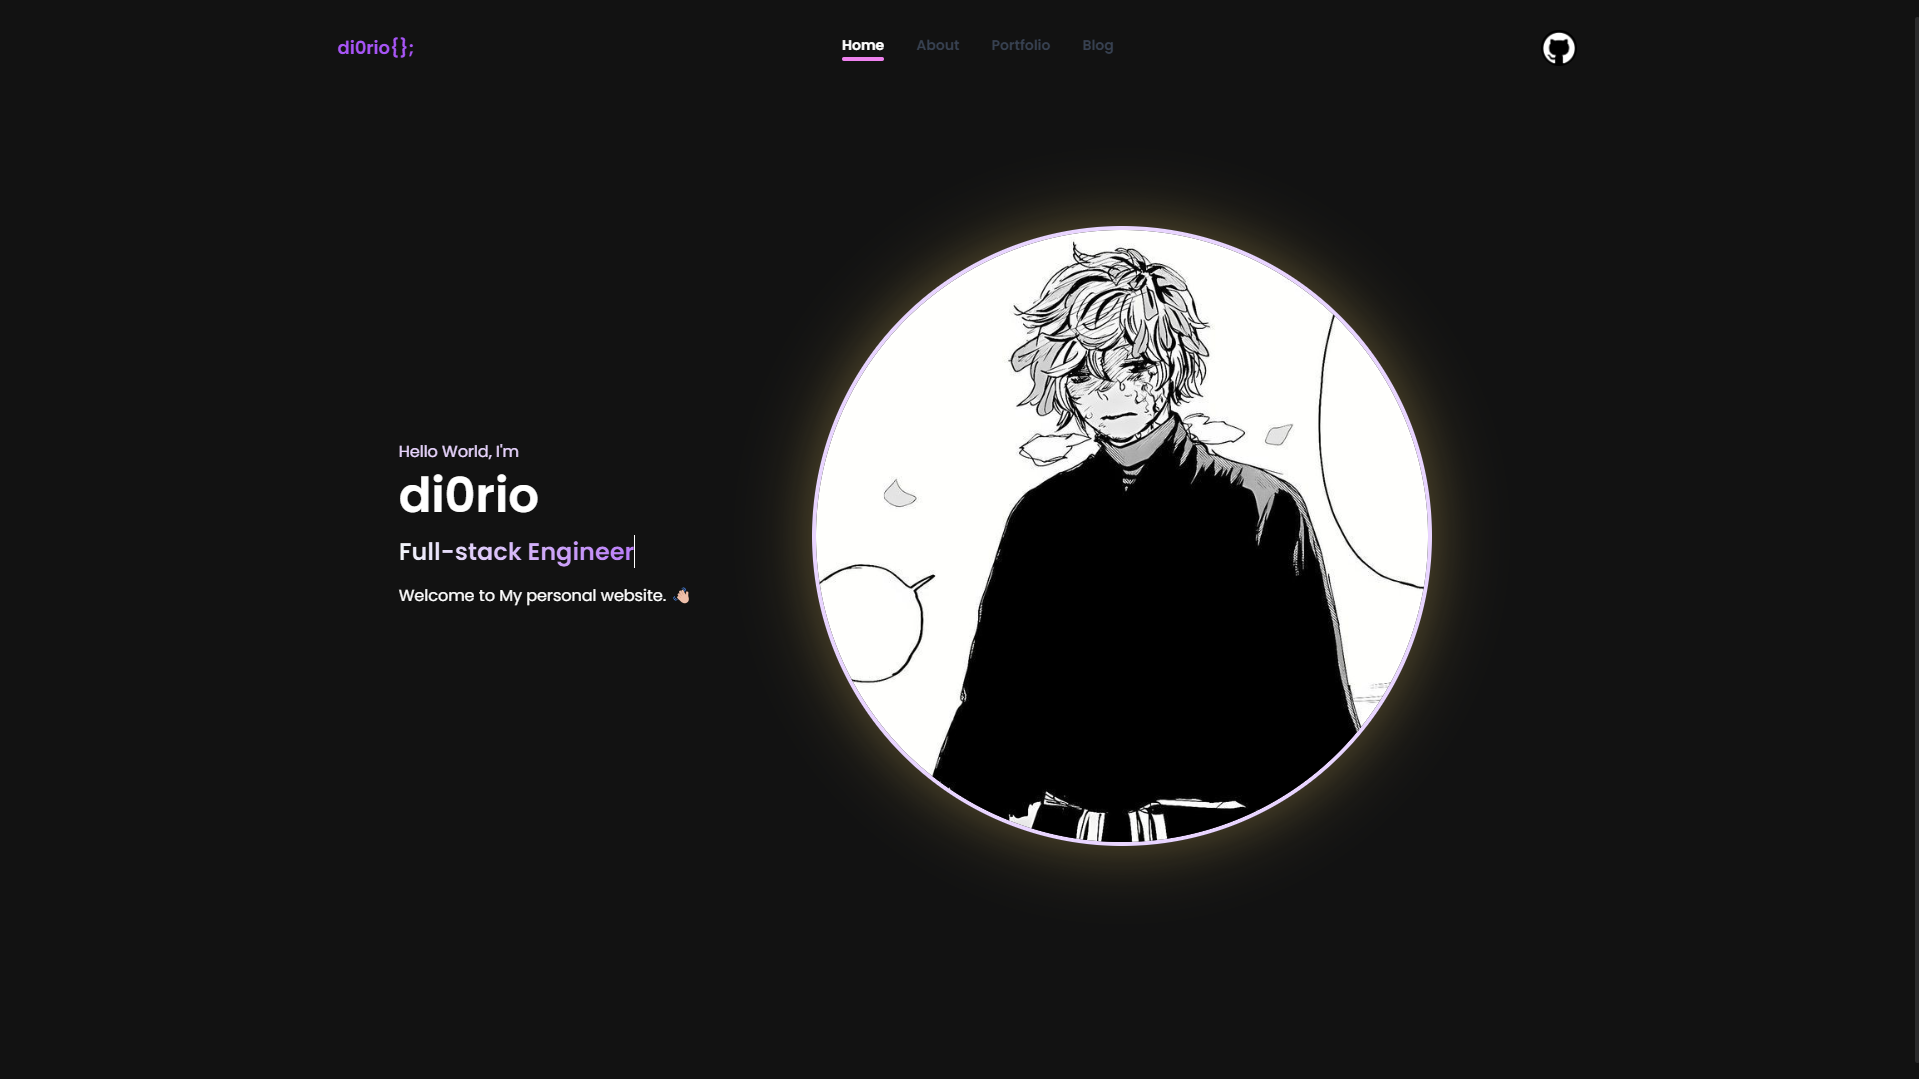
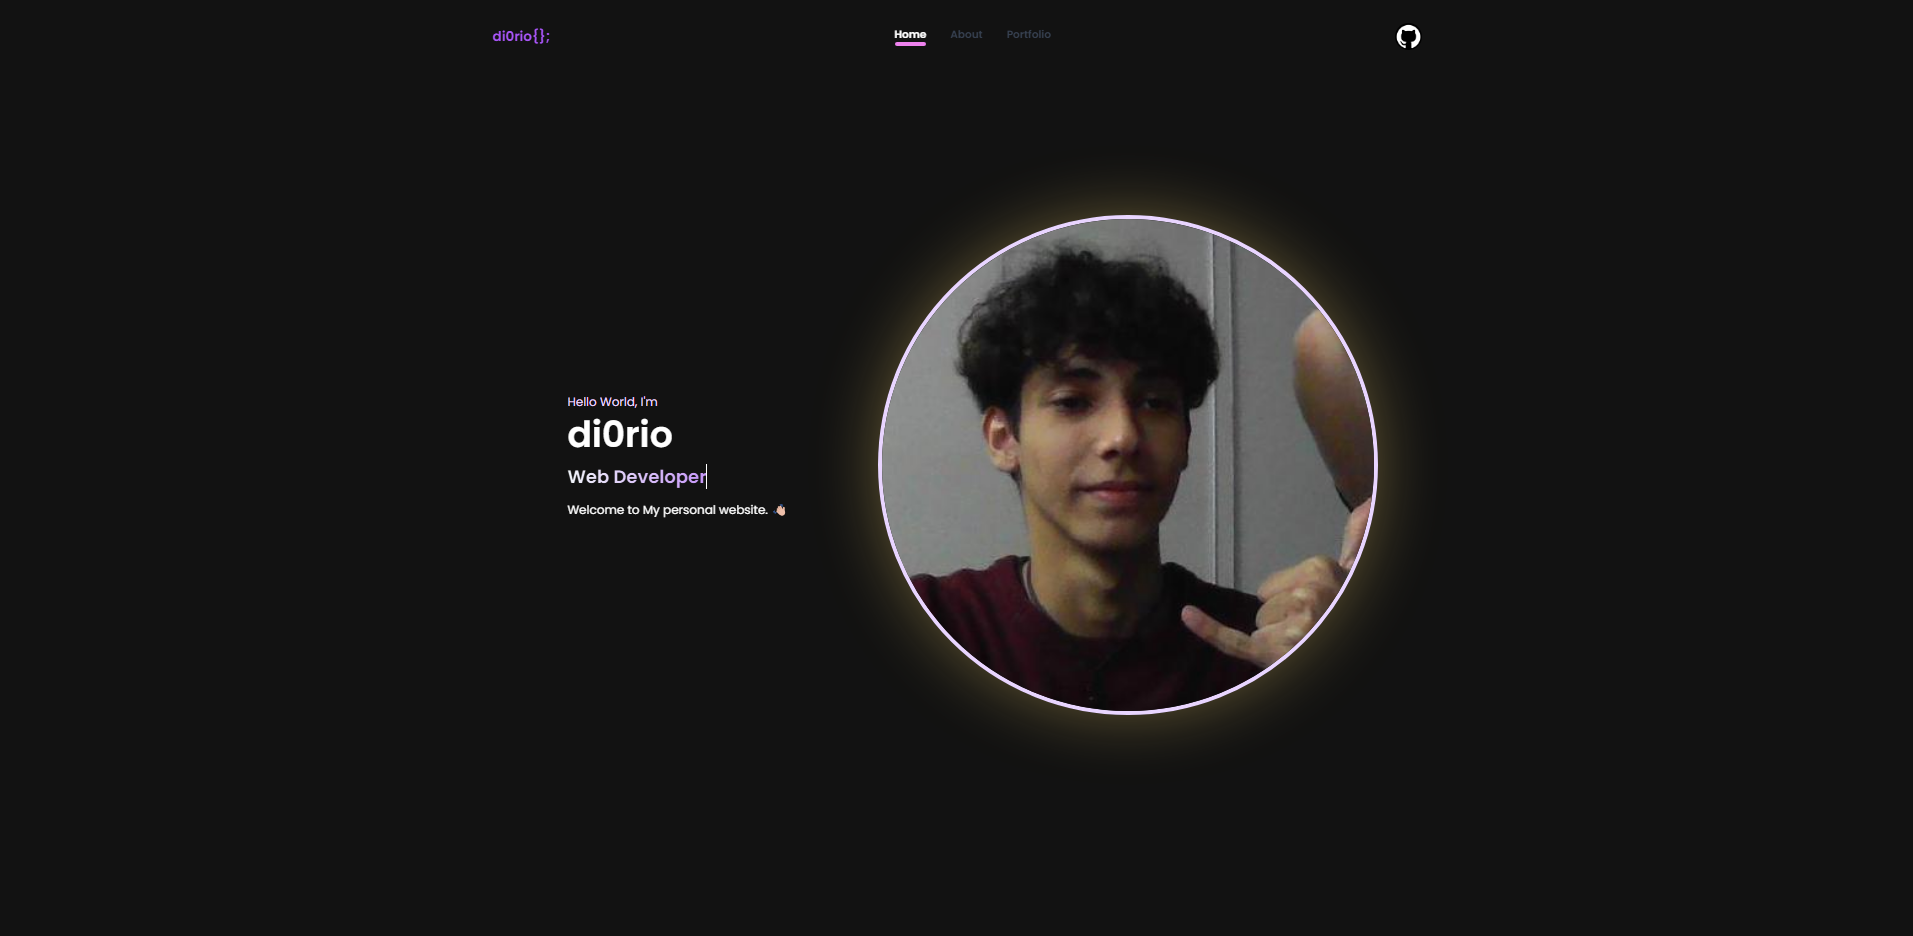
ajustes na navbar e imagens

diff --git a/src/views/PortfolioView.vue b/src/views/PortfolioView.vue
@@ -46,16 +46,27 @@ export default {
             "https://github.com/di0rio/Aquaguardians/tree/main/front-end/Sistema/Client",
           demo: "https://systemaqg.vercel.app/",
         },
-        // {
-        //   id: 5,
-        //   name: "SP2SE",
-        //   imageUrl: "sp2se",
-        //   status:
-        //     "Sistem Percepatan Pelayanan Surat Elektronik, A web application to manage letters in the village.",
-        //   tech: "Codeigniter 3, Bootstrap",
-        //   github: "null",
-        //   demo: "null",
-        // },
+        {
+          id: 5,
+          name: "Casa de Flores",
+          imageUrl: "sp2se",
+          status:
+            "A minimalist website aimed at selling decorative plants. With a clean and attractive design, it presents a selection of plants focusing on well-being and interior decoration.The homepage invites the user to subscribe to a newsletter.",
+          tech: "ReactVite, css, js",
+          github:
+            "https://github.com/di0rio/7DaysOfCode/tree/main/React/ClientFlores",
+          demo: "https://7-days-of-code-five.vercel.app/",
+        },
+        {
+          id: 6,
+          name: "Personal Website",
+          imageUrl: "portfolio_v1",
+          status:
+            "It is an application with modern look and dark interface, aimed at managing daily tasks. It allows you to create new tasks, track progress with a visual bar, and view both active and completed tasks. The layout is minimalist and functional, with emphasis on usability and personal organization. Social media icons at the top suggest integration with public profiles or sharing.",
+          github:
+            "https://github.com/di0rio/dev-list",
+          demo: "https://drag-and-drop-u4vp.vercel.app/",
+        },
       ],
     };
   },

diff --git a/src/views/HomeView.vue b/src/views/HomeView.vue
@@ -1,6 +1,6 @@
 <template>
   <main
-    class="mt-10 md:mt-1 flex flex-col-reverse gap-8 items-center md:flex-row md:gap-16 md:justify-center min-h-[65vh] md:min-h-[80vh]">
+    class="flex flex-col-reverse gap-8 items-center md:flex-row md:gap-16 md:justify-center min-h-[30vh] md:min-h-[60vh]">
     <div class="space-y-2 text-center md:text-left px-10">
       <p class="text-purple-200">Hello World, I'm</p>
       <h1 class="text-4xl font-bold md:text-5xl text-white fadein-up">di0rio</h1>
@@ -24,8 +24,8 @@
           </path>
         </svg>Download Resume</button> -->
     </div>
-    <div class="flex justify-center md:justify-start fadein-right"><img alt="avatar" fetchpriority="high" width="300" height="300" decoding="async" data-nimg="1"
-        class="w-10/12 md:h-auto rounded-full border-4 border-purple-200 pict" src="../assets/avatar.jpg">
+    <div class="flex justify-center md:justify-start fadein-right"><img alt="avatar" fetchpriority="high" width="500" height="500" decoding="async" data-nimg="1"
+        class="w-12/12 md:h-auto rounded-full border-4 border-purple-200 pict" src="../assets/avatar.jpg">
     </div>
   </main>
 </template>

diff --git a/src/App.vue b/src/App.vue
@@ -1,9 +1,9 @@
 <template>
   <!-- component -->
   <!-- This is an example component -->
-  <div class="max-w-7xl mx-auto flex flex-col relative">
+  <div class="max-w-7xl mx-auto flex flex-col">
 
-    <nav class="max-w-7xl px-5 md:fixed top-0 z-[98] w-screen backdrop-blur-md bg-[#121212] bg-opacity-80">
+    <nav class="max-w-7xl px-5 top-0 z-[98] w-screen">
       <div class="container mx-auto flex flex-wrap items-center justify-between">
         <button @click="redirectToHome" class="flex">
           <span class="self-center text-lg text-purple-500 font-semibold whitespace-nowrap fadein-bot hover:text-purple-100">di0rio{};</span>
